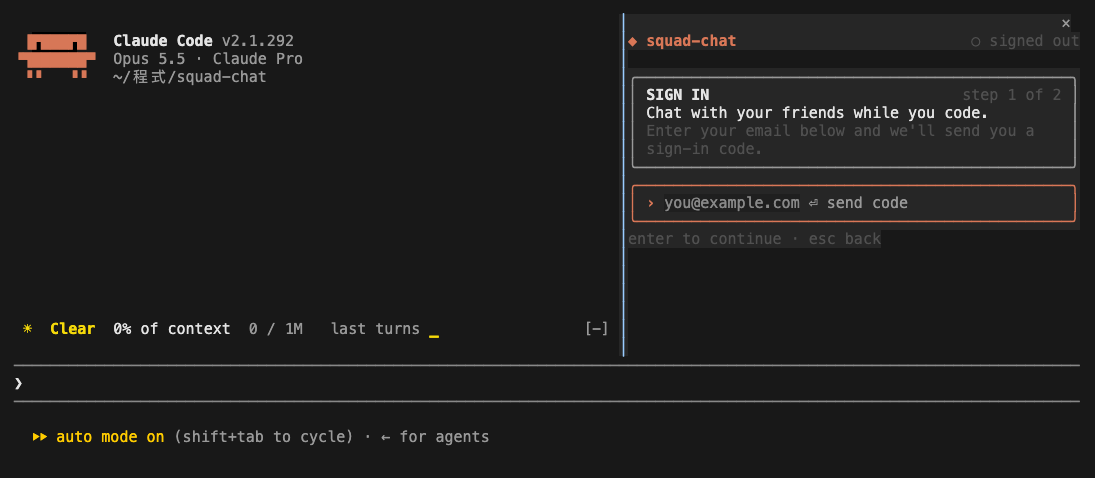
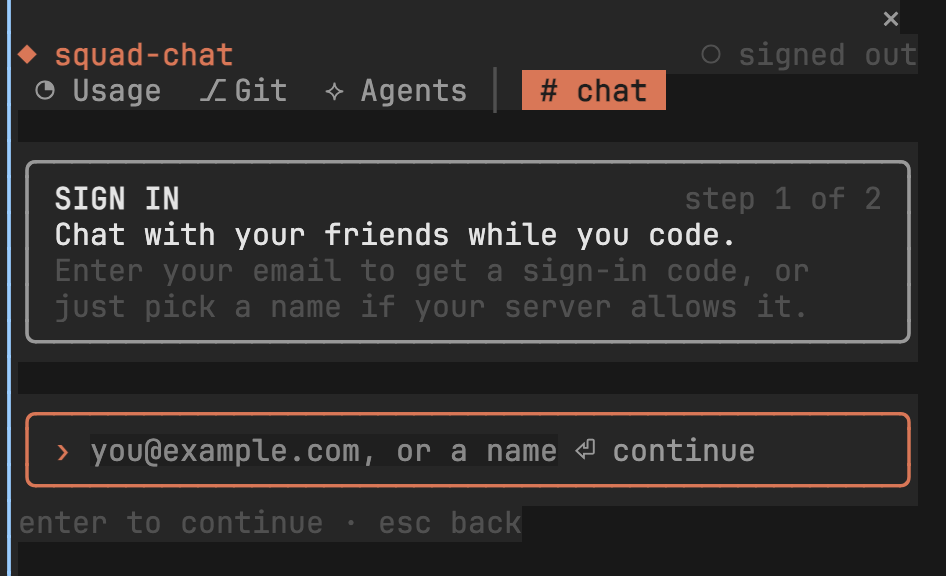
README: the demo video inline; every GIF and screenshot re-recorded at 2x
The demo video plays in the README from its GitHub upload.

The rooms, share, do-not-disturb, Usage, Git and Agents GIFs, the
never-reaches-Claude GIF and the band and sign-in screenshots predated the
desktop pane layout (#8) and were 960 px wide. They're recorded again on
this version at 2x (1800 px GIFs, 2216 px frames), with every symbol held
to one cell so the pane's edge stays straight. The Git GIF now shows PR #8
merged with its checks, so its captions say so.

diff --git a/README.md b/README.md
@@ -70,9 +70,10 @@
 
 ## About The Project
 
+https://github.com/user-attachments/assets/b83d9a2c-673a-40d0-90a3-a2c717b6c79a
+
 <div align="center">
-  <a href="https://chrisluo5311.github.io/squad-chat/#see-it-run"><img src="docs/assets/demo-play.jpg" alt="squad-chat demo video: chatting with sam and ana while Claude runs a subagent, then the Agents, Usage and Git rooms, and a Usage snapshot shared to the room. Click to watch." width="100%"></a>
-  <sub>Click to watch the demo: chatting while Claude works, the Agents, Usage and Git rooms, and a snapshot shared to the room.</sub>
+  <sub>Chatting with the squad while Claude runs a subagent, then the Agents, Usage and Git rooms, and a Usage snapshot shared to the room.</sub>
 </div>
 
 <br />
@@ -249,8 +250,8 @@ Where your branch stands on GitHub, read through the [`gh` CLI](https://cli.gith
 It refreshes every minute while you look at it, every five minutes otherwise, and shortly after a `git push`. Type `r` in the pane to refresh now, and press ⧉ to copy a link.
 
 <div align="center">
-  <img src="docs/assets/git.gif" alt="The Git room for the squad-chat repository: the branch, PR #7 with its checks going from three passed and two running to all five passed, the merge state turning from blocked to mergeable, and the Actions runs finishing, refreshed with r." width="100%">
-  <sub>PR #7's checks finish while the room refreshes: blocked becomes mergeable.</sub>
+  <img src="docs/assets/git.gif" alt="The Git room for the squad-chat repository on a merged branch: PR #8 merged with all five checks passed, no other open pull requests, the latest Actions runs and no assigned issues, then r refreshes it." width="100%">
+  <sub>A merged branch: PR #8 and its five checks, the latest Actions runs, and a refresh with r.</sub>
 </div>
 
 <br />

diff --git a/site/src/content/docs/use/built-in-rooms.md b/site/src/content/docs/use/built-in-rooms.md
@@ -39,8 +39,8 @@ Where your branch stands on GitHub, read through the [`gh` CLI](https://cli.gith
 It refreshes every minute while you look at it, every five minutes otherwise, and shortly after a `git push`. Type `r` in the pane to refresh now, and press ⧉ to copy a link.
 
 <figure class="shot">
-  <img src="/squad-chat/media/git.gif" alt="The Git room for the squad-chat repository: the branch, PR #7 with its checks going from three passed and two running to all five passed, the merge state turning from blocked to mergeable, and the Actions runs finishing, refreshed with r." />
-  <figcaption>PR #7's checks finish while the room refreshes: blocked becomes mergeable.</figcaption>
+  <img src="/squad-chat/media/git.gif" alt="The Git room for the squad-chat repository on a merged branch: PR #8 merged with all five checks passed, no other open pull requests, the latest Actions runs and no assigned issues, then r refreshes it." />
+  <figcaption>A merged branch: PR #8 and its five checks, the latest Actions runs, and a refresh with r.</figcaption>
 </figure>
 
 ## ⟡ Agents
